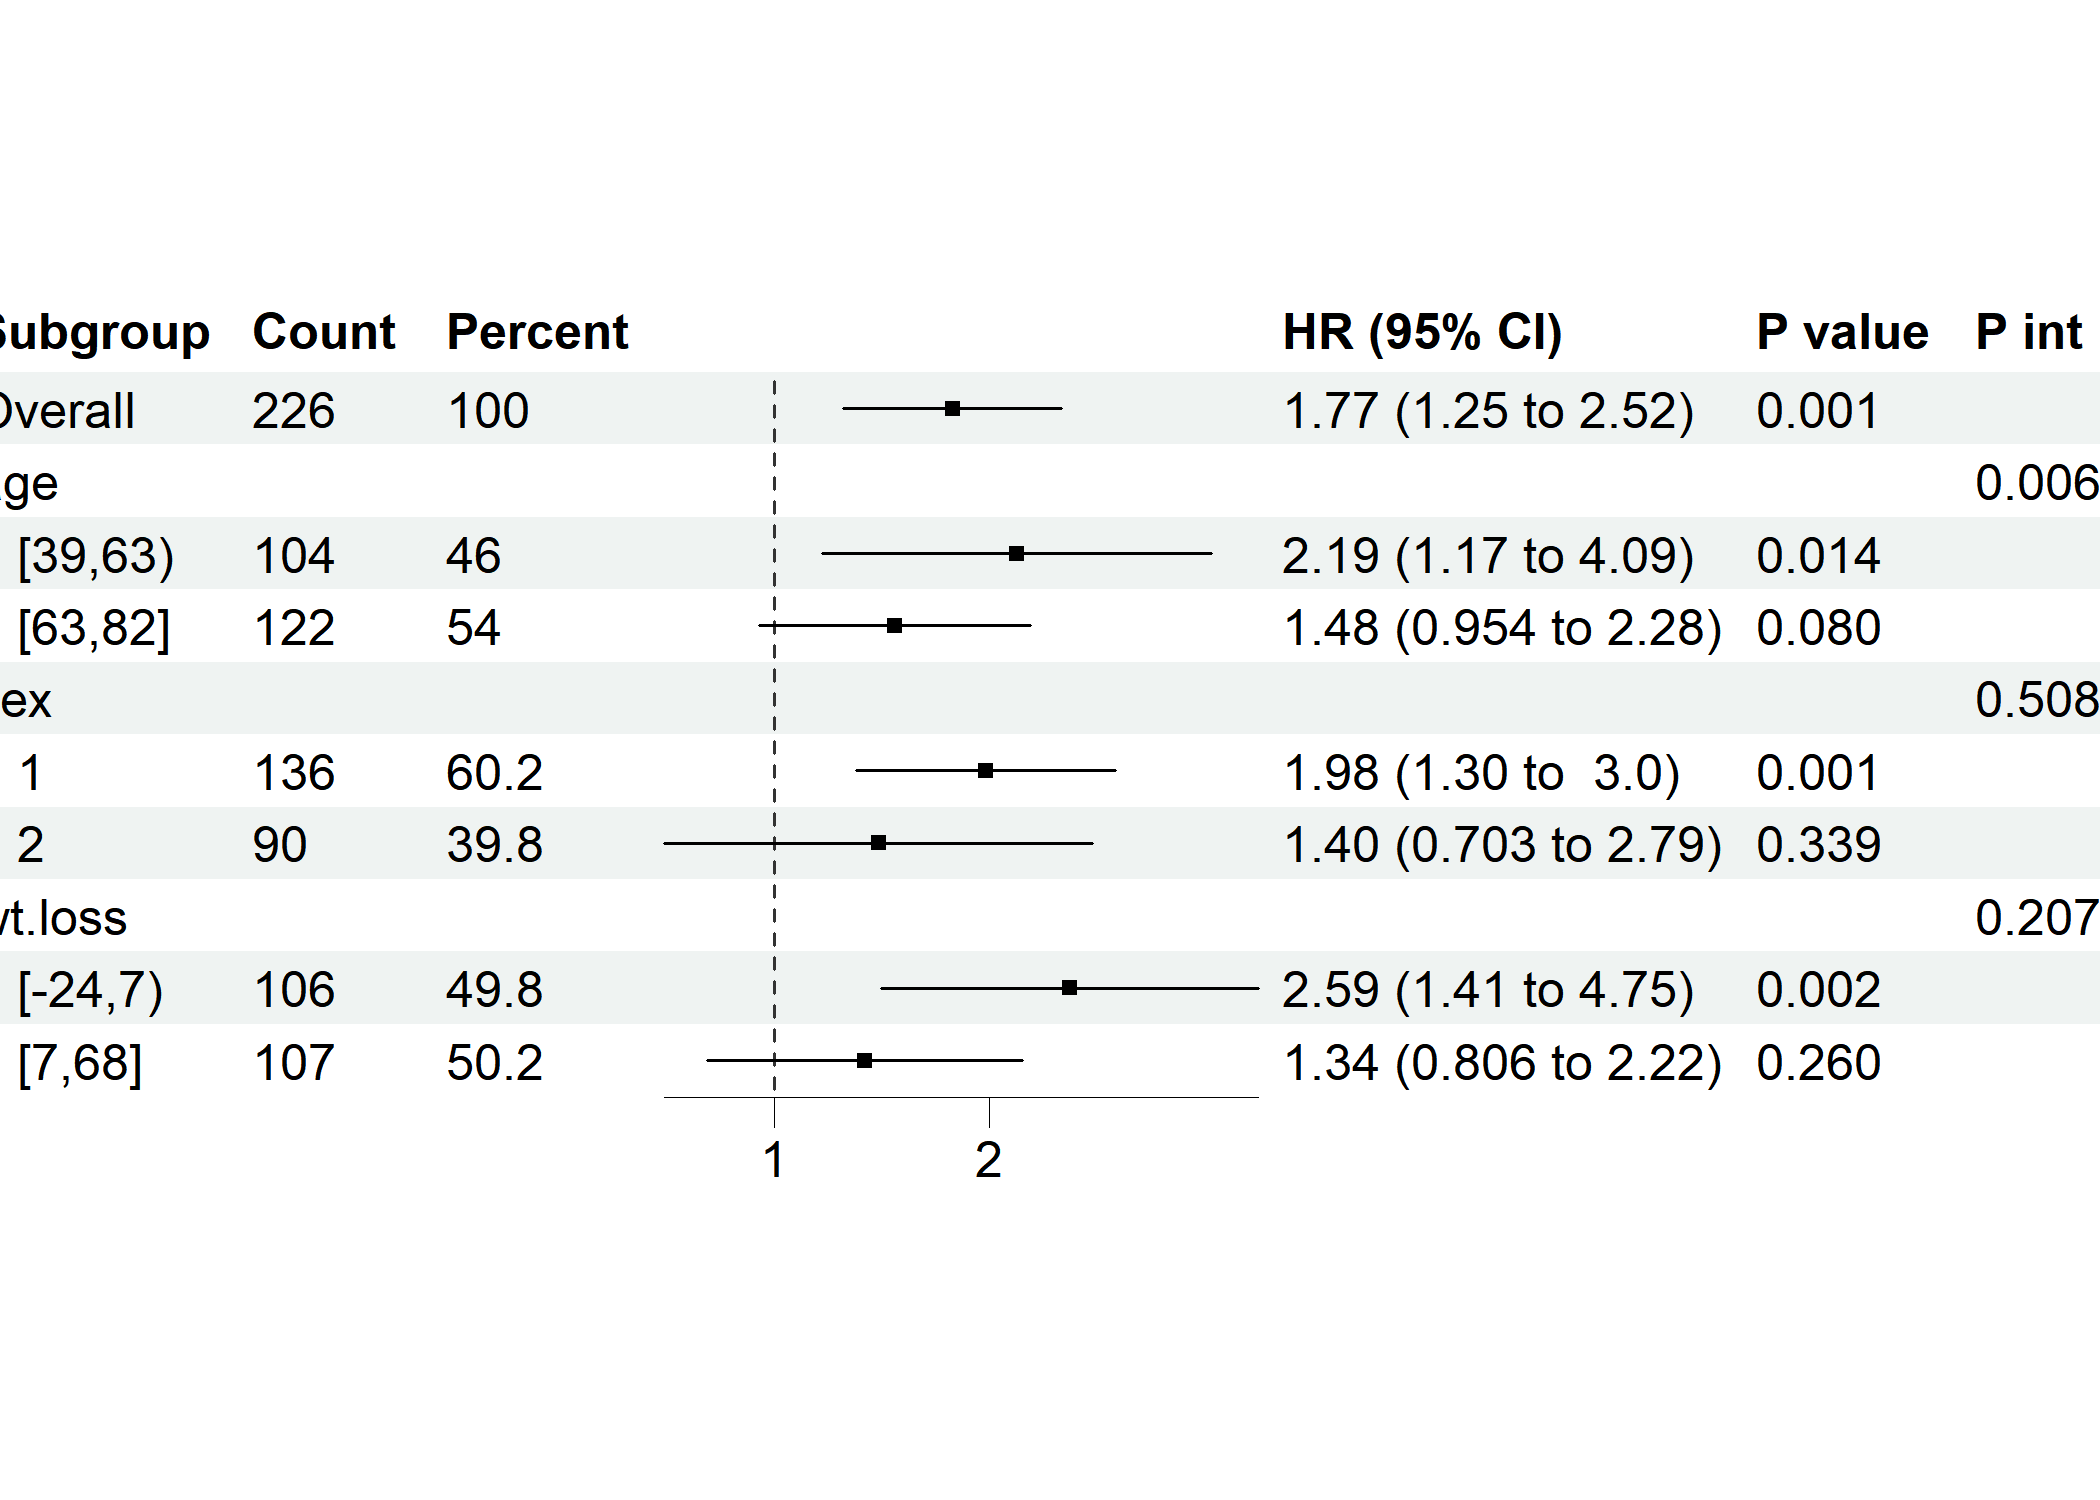
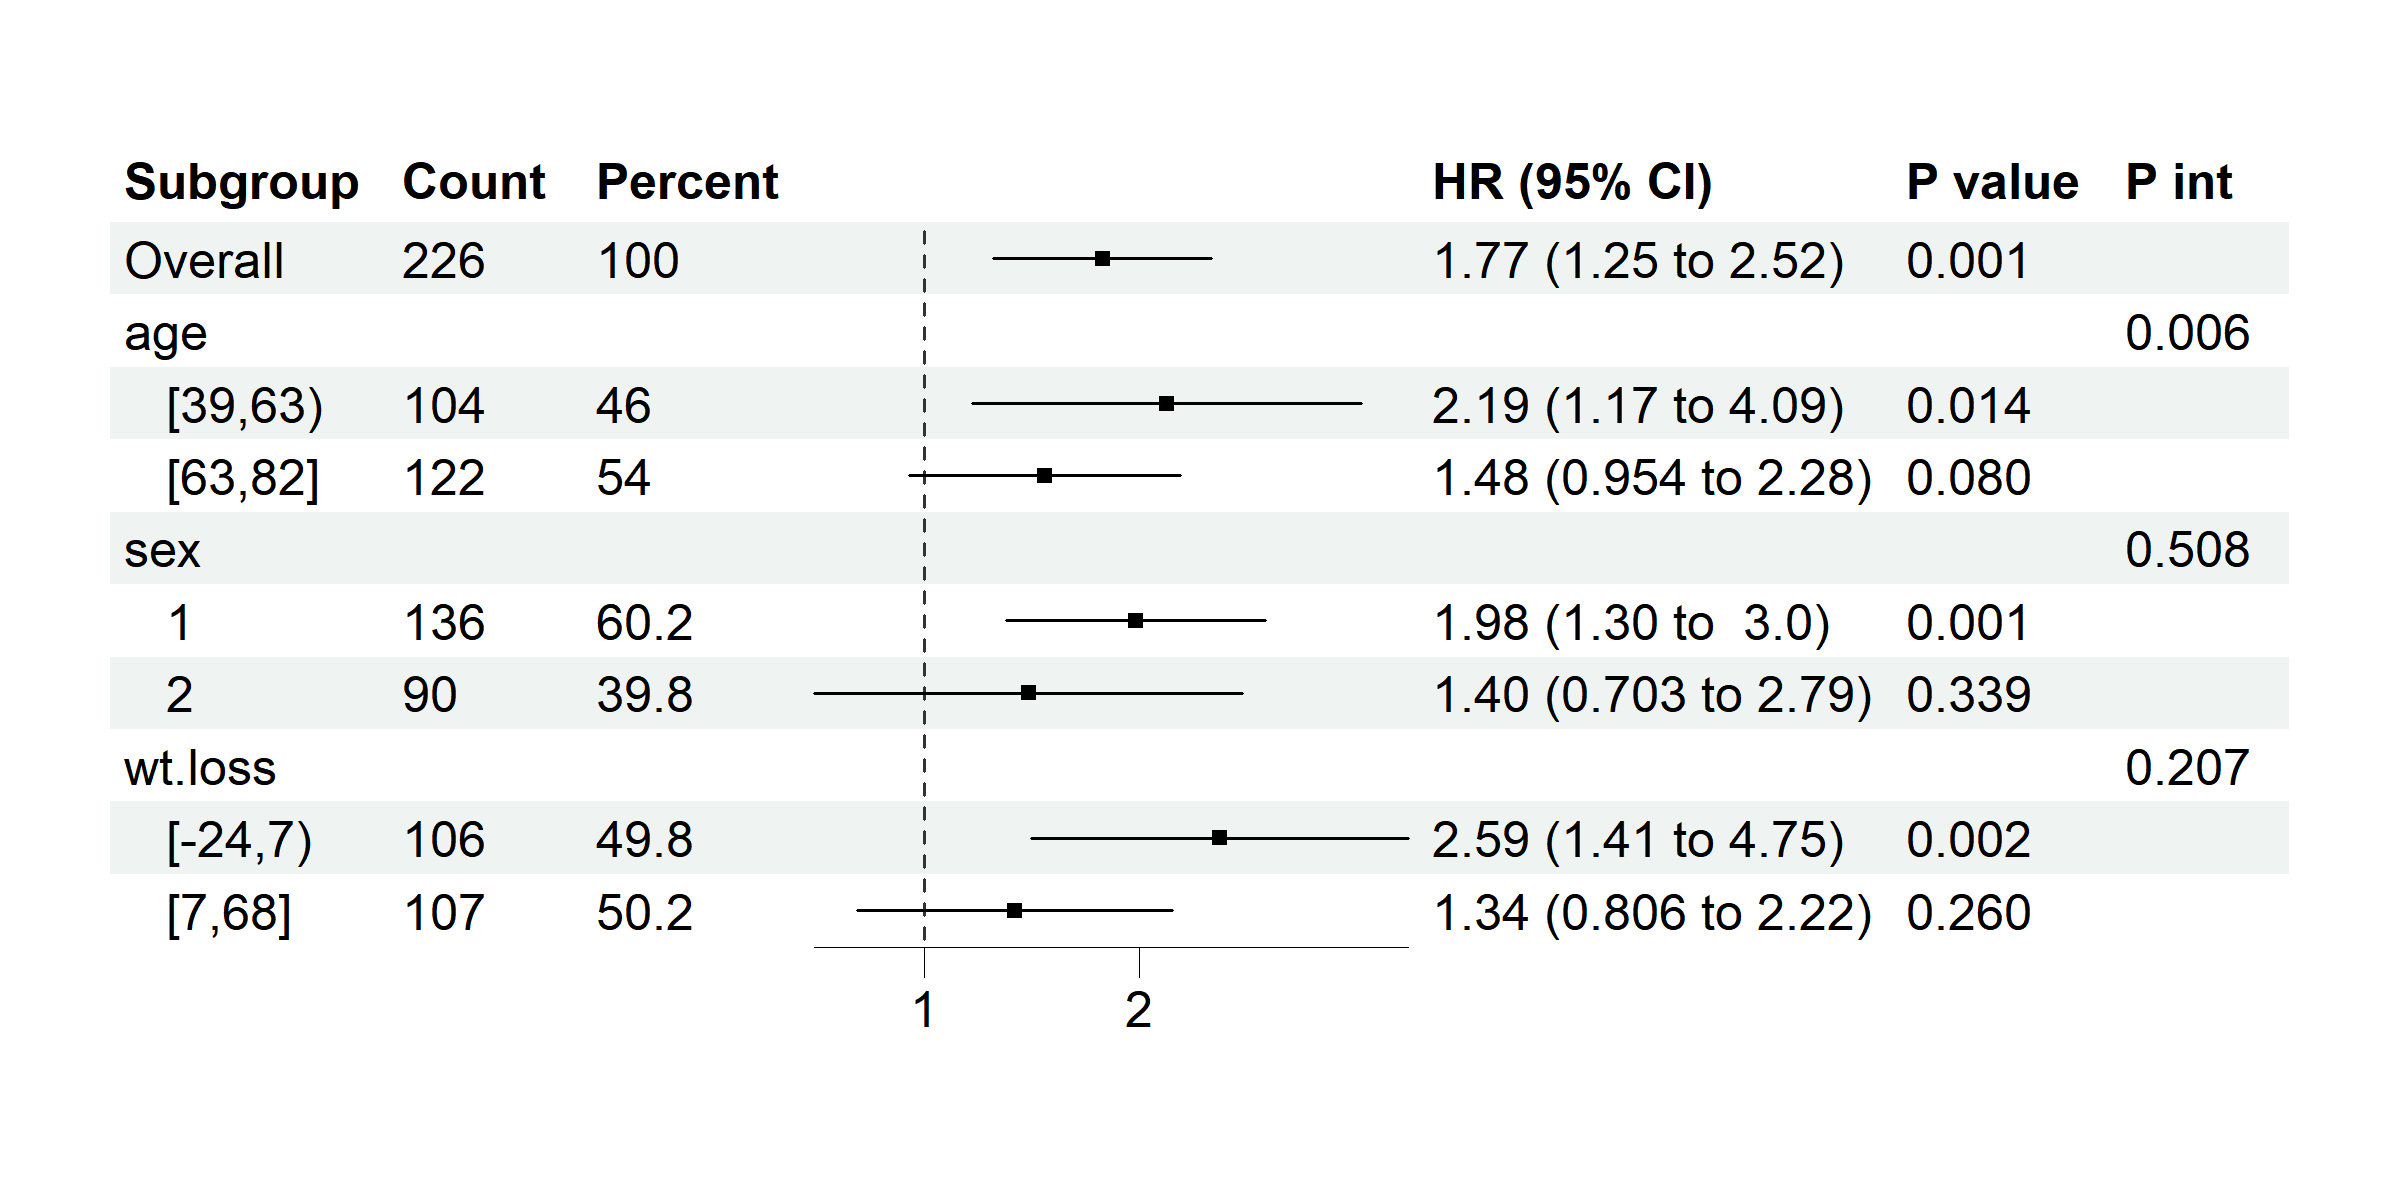
update readme

diff --git a/README.md b/README.md
@@ -228,7 +228,7 @@ p <- subgroup_forest(cancer,
 plot(p)
 ```
 
-<img src="man/figures/README-example_3.5-1.png" width="110%" />
+<img src="man/figures/README-example_3.5-1.png" width="100%" />
 
 ## Documentation
 
